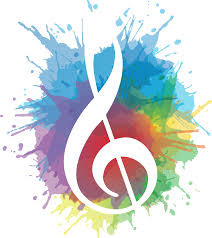
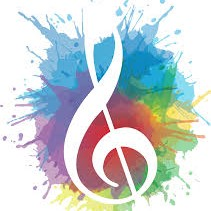
Update popular posts images - headline - spacing
cropped a couple of the images for the popular posts section.
made the headline for the section bigger.  changed each post
title from regular span to h5 and tried to even out the spacing

diff --git a/index.html b/index.html
@@ -64,27 +64,27 @@
         
         <section class="popular_posts"><!------------------------------------------------ Popular Posts -->
             <div>
-              <h4>Popular Posts</h4>
+              <h3>Popular Posts</h3>
             </div>
             <ul>
               <li>
-                <img src="images/soundcloud-icon.png" alt="Image" style="width:50px">
-                <span>Lorem</span><br>
+                <img src="images/soundcloud-icon.png" alt="Image">
+                <h5>Post Title</h5>
                 <span>Sed mattis nunc</span>
               </li>
               <li>
-                <img src="images/treble-clef.jpg" alt="Image" style="width:50px">
-                <span>Ipsum</span><br>
+                <img src="images/treble-clef.jpg" alt="Image">
+                <h5>Post Title</h5>
                 <span>Praes tinci sed</span>
               </li> 
               <li>
-                <img src="images/pink-headphones.jpg" alt="Image" style="width:50px">
-                <span>Dorum</span><br>
+                <img src="images/pink-headphones.jpg" alt="Image">
+                <h5>Post Title</h5>
                 <span>Ultricies congue</span>
               </li>   
               <li>
-                <img src="images/girl-with-headphones.jpg" alt="Image" style="width:50px">
-                <span>Mingsum</span><br>
+                <img src="images/girl-with-headphones.jpg" alt="Image">
+                <h5>Post Title</h5>
                 <span>Lorem ipsum dipsum</span>
               </li>  
             </ul>

diff --git a/styles.css b/styles.css
@@ -82,6 +82,32 @@ html{
     /* background-color: burlywood; */
 }
 
+.popular_posts {
+    display: flex;
+    flex-direction: column;
+}
+.popular_posts li {
+    border-bottom: 1px dashed blueviolet;
+    padding: 50px 0;
+    list-style-type: none;
+}
+.popular_posts h3 {
+    font-size: 32px;
+    text-align: center;
+    margin-bottom: 5px;
+    padding-bottom: 5px;
+}
+
+.popular_posts h5 {
+    margin-bottom: 0px;
+}
+
+.popular_posts img {
+    width: 100px;
+    margin-right: 20px;
+    float: left;
+}
+
 /*------------Responsive-----------*/
 @media screen and (min-width:750px) {
     .entry img {
